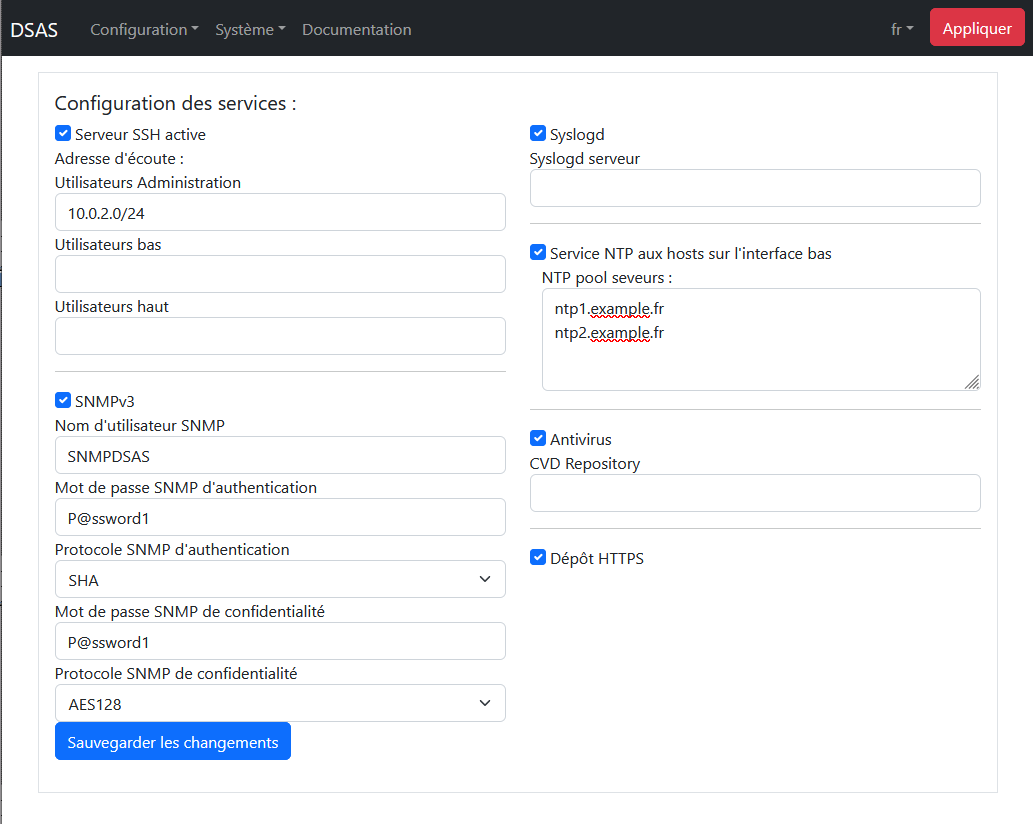
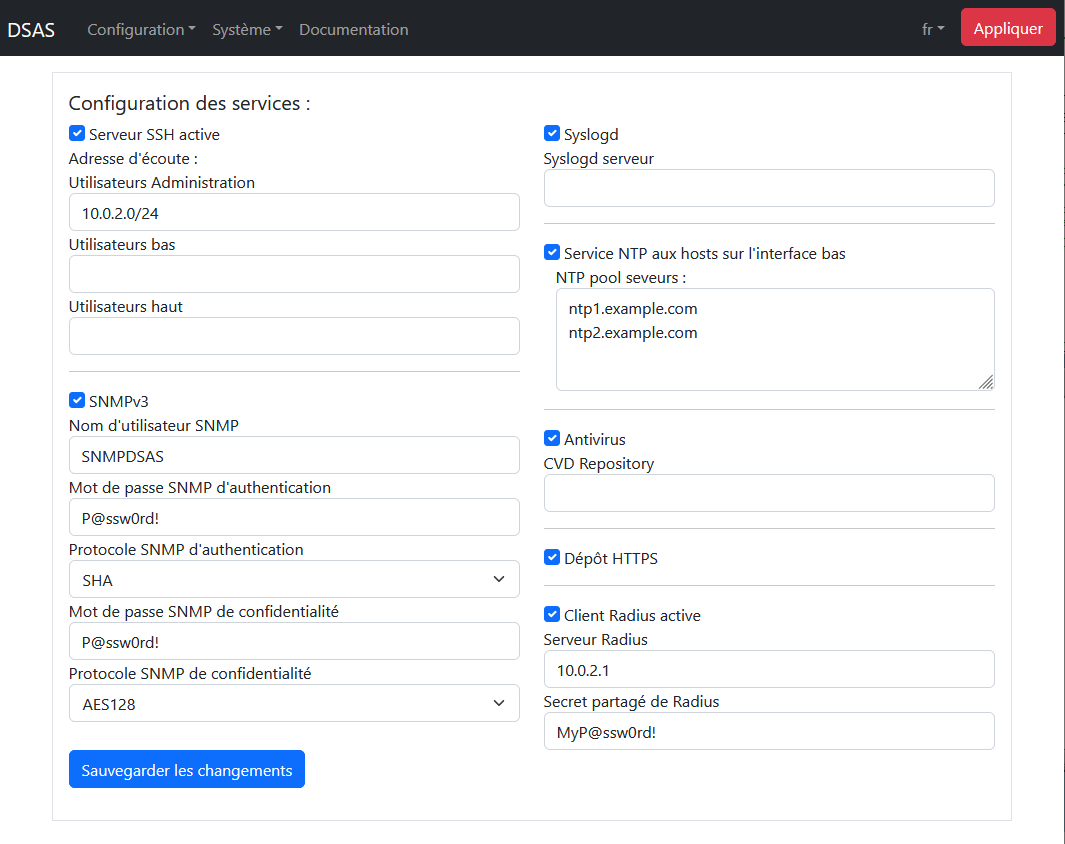
docs: Document radius client

diff --git a/append/usr/local/share/www/Documentation_fr.md b/append/usr/local/share/www/Documentation_fr.md
@@ -912,6 +912,7 @@ il y a 6 services qui pourrait être démarrer sur les machines du DSAS;
 - Un client syslogd pour les logs d'administration locale et distante,
 - Un serveur SNMPD pour la remonté du statut du DSAS, et 
 - Un serveur de vérification antivirale
+- Un client Radius 
 
 ![Menu de configuration du serveur web](fr/DSAS16.png)
 
@@ -1042,6 +1043,26 @@ https://database.clamav.net/bytecode.cvd
 et dans ce cas, la configuration du URI du DSAS pourrait être
 `https://database.clamav.net/` mais un site de réplication locale est
 préférable. Le DSAS mettra à jour ces signatures un fois par jour.
+
+### Client Radius
+
+Le DSAS inclut la possibilité d'utiliser un serveur radius pour 
+l'authentication des mots de passe des utilisateurs. Les comptes des
+utilisateurs sur le DSAS doit avoir les mêmes nom que le serveur Radius
+et seulement le rôle de validation des mots de passe est délugué au
+serveur. Les comptes eux-mêmes reste local au DSAS. Si, et seulement si,
+le serveur Radius n'est pas disponsible, les mots de passe locaux seraient
+utilisés.
+
+Le client Radius du DSAS ne peut que utiliser PAP. Même si PAP est chiffré,
+il souffre de deux problemes
+
+- A la base il fonctionne sur la hash MD5, donc le secret partagé doi-être
+le plus long possible (32 caracteres recommandé)
+- Le "nonce" est selectionné par le client, et donc une cpature de la paquet
+RADIUS_REQUEST de la client et sa rejoue pourrait permettre un authetification
+sans mot de passe. Ceci veut dire que la connexion réseau entre le client et
+serveur doit-être physiquement sécurisé.
 
 # Exploitation du DSAS
 
@@ -1996,6 +2017,8 @@ Afin de garantir le niveau de sécurité du DSAS.
 | réseau ouverte  | haut            | 22          | tcp     | sftp     | non reco. | dépôt fichier user 'haut'    |
 | bas             | réseau sensible | 123         | udp     | ntp      | optionnel | synchronisation temps        |
 | bas             | réseau sensible | 514         | udp     | syslog   | optionnel | service de log               | 
+| bas             | réseau sensible | 1812        | udp     | radius   | optionnel | radius authentication        |
+| bas             | réseau sensible | 1813        | udp     | radius   | optionnel | radius accounting            |
 | haut            | réseau ouverte  | 22          | tcp     | sftp/scp |    -      | tâche en sftp/scp            |
 | haut            | réseau ouverte  | 20          | tcp     | ftp      |    -      | tâche en ftp - data fixed    |
 | haut            | réseau ouverte  | 21          | tcp     | ftp      |    -      | tâche en ftp                 |

diff --git a/append/usr/local/share/www/Documentation_en.md b/append/usr/local/share/www/Documentation_en.md
@@ -882,6 +882,8 @@ other services which could be started on the DSAS;
 - A syslogd client for local and remote administration logs,
 - A SNMPD server to supply the status logs of the DSAS, and
 - An antivirus server
+- A radius client
+
 
 ![Web server configuration menu](en/DSAS16.png)
 
@@ -1008,6 +1010,25 @@ https://database.clamav.net/bytecode.cvd
 and the URI to configure on the DSAS could be
 `https://database.clamav.net/` but a local mirror should be preferred.
 The DSAS will update these files from this URI once a day.
+
+### Radius Client
+
+The DSAS includes the possibility to use a radius serveur for the 
+authentification of user passwords. The user accounts mist be setup on the
+DSAS with the same usernames as the Radius server, and only the role of 
+validating the user is delegated to the Radius Server. The accounts 
+themselves remain local to the DSAS. If, and only if, the radius serveur
+is not available, the local password on the DSAS will be used.
+
+The DSAS radius client only uses PAP. Although radius PAP is encrypted it
+suffers from two major problems. 
+
+- It is based on the use of an MD5 hash, so to ensure its security the 
+shared secret must be as longer as possible (32 characters recommanded),
+- The "nonce" is selected by the client, therefore a capture of the traffic
+RADIUS_REQUEST packet between the Radius client and server, can easily be
+replayed. This means the network connection between the client and server
+needs to be physically secured.
 
 # DSAS Operation
 
@@ -1930,6 +1951,8 @@ the DSAS to ensure its security.
 | open network      | upper             | 22          | tcp     | sftp     | not reco. | user 'haut' file deposit      |
 | lower             | sensitive network | 123         | udp     | ntp      | optional  | time synchronization          |
 | lower             | sensitive network | 514         | udp     | syslog   | optional  | log service                   | 
+| lower             | sensitive network | 1812        | udp     | radius   | optional  | radius authentification       |
+| lower             | sensitive network | 1813        | udp     | radius   | optional  | radius accounting             |
 | upper             | open network      | 22          | tcp     | sftp/scp |    -      | task : sftp/scp               |
 | upper             | open network      | 20          | tcp     | ftp      |    -      | task : ftp - data fixed       |
 | upper             | open network      | 21          | tcp     | ftp      |    -      | task : ftp                    |
